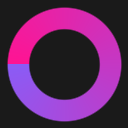
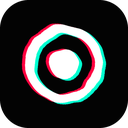
🎨 アイコンを VJam のマークだけにする(16 / 32 は線を太くした専用版・128 は Chrome の決まりどおり余白 16px) (#46)
Claude-Session: https://claude.ai/code/session_01KWqDCDRt7t6u1dRTCBqyeM

diff --git a/tools/design/make_assets.py b/tools/design/make_assets.py
@@ -1,0 +1,101 @@
+# VJam FX のロゴ・アイコンを作る(位置は全部インクの外枠で測って合わせる)
+# usage: python3 tools/design/make_assets.py [出力先]  元: mark.png / wordmark.png(VJam 本体の design/logo)
+# 採用:アイコンは A(マークだけ。名前は VJam FX のまま、アイコンに文字は入れない)、16 / 32 は線を太くした専用版
+from PIL import Image, ImageDraw, ImageFont, ImageFilter
+import numpy as np
+import os, sys
+HERE = os.path.dirname(os.path.abspath(__file__))
+os.chdir(HERE)
+OUT = sys.argv[1] if len(sys.argv) > 1 else 'out/'
+os.makedirs(OUT, exist_ok=True)
+PINK, CYAN, WHITE, BG = (255, 42, 90, 255), (0, 230, 220, 255), (245, 245, 245, 255), (3, 3, 3, 255)
+FONT = ('/System/Library/Fonts/Avenir Next.ttc', 0)  # 下で Heavy を探す
+
+def font(px):
+    for i in range(12):
+        f = ImageFont.truetype(FONT[0], px, index=i)
+        if f.getname()[1] in ('Heavy',): return f
+    return ImageFont.truetype(FONT[0], px, index=0)
+
+def ink(im):
+    a = np.array(im.split()[-1]); ys, xs = np.where(a > 24)
+    return xs.min(), ys.min(), xs.max() + 1, ys.max() + 1
+
+def fx_text(cap_h, chroma):
+    """FX の文字だけを、インクぎりぎりの画像で返す(色ずれ込み)"""
+    f = font(int(cap_h * 1.45)); W = int(cap_h * 4); im = Image.new('RGBA', (W, W), (0, 0, 0, 0)); d = ImageDraw.Draw(im)
+    o = max(1, round(cap_h * 0.05)) if chroma else 0
+    x0, y0 = W // 4, W // 4
+    if o:
+        d.text((x0 - o, y0), 'FX', font=f, fill=PINK); d.text((x0 + o, y0), 'FX', font=f, fill=CYAN)
+    d.text((x0, y0), 'FX', font=f, fill=WHITE)
+    b = ink(im); im = im.crop(b)
+    # 高さを cap_h ちょうどに
+    return im.resize((round(im.width * cap_h / im.height), cap_h), Image.LANCZOS)
+
+mark = Image.open('mark.png'); mark = mark.crop(ink(mark))
+
+# ---------- ① ロゴ(横組み):手書き VJam + FX。FX の下端を「AM」の下端にそろえる ----------
+wm = Image.open('wordmark.png')
+wx0, wy0, wx1, wy1 = ink(wm); wm = wm.crop((wx0, wy0, wx1, wy1))
+AM_BASE = 215 - wy0          # 「AM」の下端(定規で確認)
+AM_TOP = 97 - wy0            # 「AM」の上端
+cap = round((AM_BASE - AM_TOP) * 0.62)
+fx = fx_text(cap, True)
+gap = round(cap * 0.38)
+L = Image.new('RGBA', (wm.width + gap + fx.width, wm.height), (0, 0, 0, 0))
+L.alpha_composite(wm, (0, 0)); L.alpha_composite(fx, (wm.width + gap, AM_BASE - fx.height))
+L.save(OUT + 'lockup.png')
+
+# ---------- ② アイコン ----------
+def tile(T, radius=0.2235):
+    im = Image.new('RGBA', (T, T), (0, 0, 0, 0)); ImageDraw.Draw(im).rounded_rectangle((0, 0, T - 1, T - 1), radius=round(T * radius), fill=BG); return im
+
+def icon_A(T):
+    im = tile(T); d = round(T * 0.66); m = mark.resize((d, round(d * mark.height / mark.width)), Image.LANCZOS)
+    im.alpha_composite(m, ((T - m.width) // 2, (T - m.height) // 2)); return im
+
+def icon_B(T, fx_ratio, pad=0.13, gap=0.045):
+    """FX をインク基準で右下の余白 pad にぴったり置き、マークは FX と gap 以上離れる範囲で最大・左上寄せ"""
+    im = tile(T); p = round(T * pad)
+    fx = fx_text(round(T * fx_ratio), True)
+    fx_x, fx_y = T - p - fx.width, T - p - fx.height
+    fxmask = Image.new('L', (T, T), 0); fxmask.paste(fx.split()[-1], (fx_x, fx_y))
+    g = round(T * gap); grown = np.array(fxmask.filter(ImageFilter.MaxFilter(2 * (g // 2) + 1))) > 24
+    best = None
+    for d in range(round(T * 0.72), round(T * 0.40), -max(1, T // 256)):
+        m = mark.resize((d, round(d * mark.height / mark.width)), Image.LANCZOS)
+        # 左上の余白は pad、ただし左右の余白と上下の余白はそろえる(マークの中心を対角線上に)
+        mx, my = p, p
+        mm = np.zeros((T, T), bool); a = np.array(m.split()[-1]) > 24
+        mm[my:my + m.height, mx:mx + m.width] = a[:T - my, :T - mx]
+        if not (mm & grown).any(): best = (m, mx, my); break
+    m, mx, my = best
+    im.alpha_composite(m, (mx, my)); im.alpha_composite(fx, (fx_x, fx_y)); return im
+
+def special(T, chroma):
+    S = T * 8; im = tile(S); d = ImageDraw.Draw(im); c = S / 2; R = S * 0.34; w = round(S * 0.13); r = S * 0.11
+    def ring(dx, col):
+        d.ellipse((c - R + dx, c - R, c + R + dx, c + R), outline=col, width=w); d.ellipse((c - r + dx, c - r, c + r + dx, c + r), fill=col)
+    if chroma: o = S * 0.045; ring(-o, PINK); ring(o, CYAN)
+    ring(0, WHITE); return im.resize((T, T), Image.LANCZOS)
+
+def store128(art):
+    """Chrome の決まり:128 の中に 96 の絵 + 周り 16px は透明"""
+    im = Image.new('RGBA', (128, 128), (0, 0, 0, 0)); im.alpha_composite(art.resize((96, 96), Image.LANCZOS), (16, 16)); return im
+
+for name, make in (('A', icon_A), ('B3', lambda T: icon_B(T, 0.17)), ('B4', lambda T: icon_B(T, 0.13))):
+    big = make(1024); big.save(OUT + f'icon-{name}-1024.png')
+    store128(big).save(OUT + f'icon-{name}-128.png')
+    make(384).resize((48, 48), Image.LANCZOS).save(OUT + f'icon-{name}-48.png')
+special(16, False).save(OUT + 'icon-16.png'); special(32, True).save(OUT + 'icon-32.png')
+
+# iOS(Safari アプリ)用:角丸なし・全面(OS が角を丸める)
+for name, make in (('A', icon_A), ('B3', lambda T: icon_B(T, 0.17)), ('B4', lambda T: icon_B(T, 0.13))):
+    im = make(1024); sq = Image.new('RGBA', (1024, 1024), BG); sq.alpha_composite(im); sq.convert('RGB').save(OUT + f'ios-{name}-1024.png')
+# 製品で使う形(A)
+a = icon_A(1024)
+store128(a).save(OUT + 'ext-128.png')                       # 拡張 128(96 + 透明 16)
+a.resize((48, 48), Image.LANCZOS).save(OUT + 'ext-48.png')
+a.resize((128, 128), Image.LANCZOS).save(OUT + 'app-128.png')  # Safari のアプリ画面用(全面)
+print('ok', L.size, 'cap', cap)
